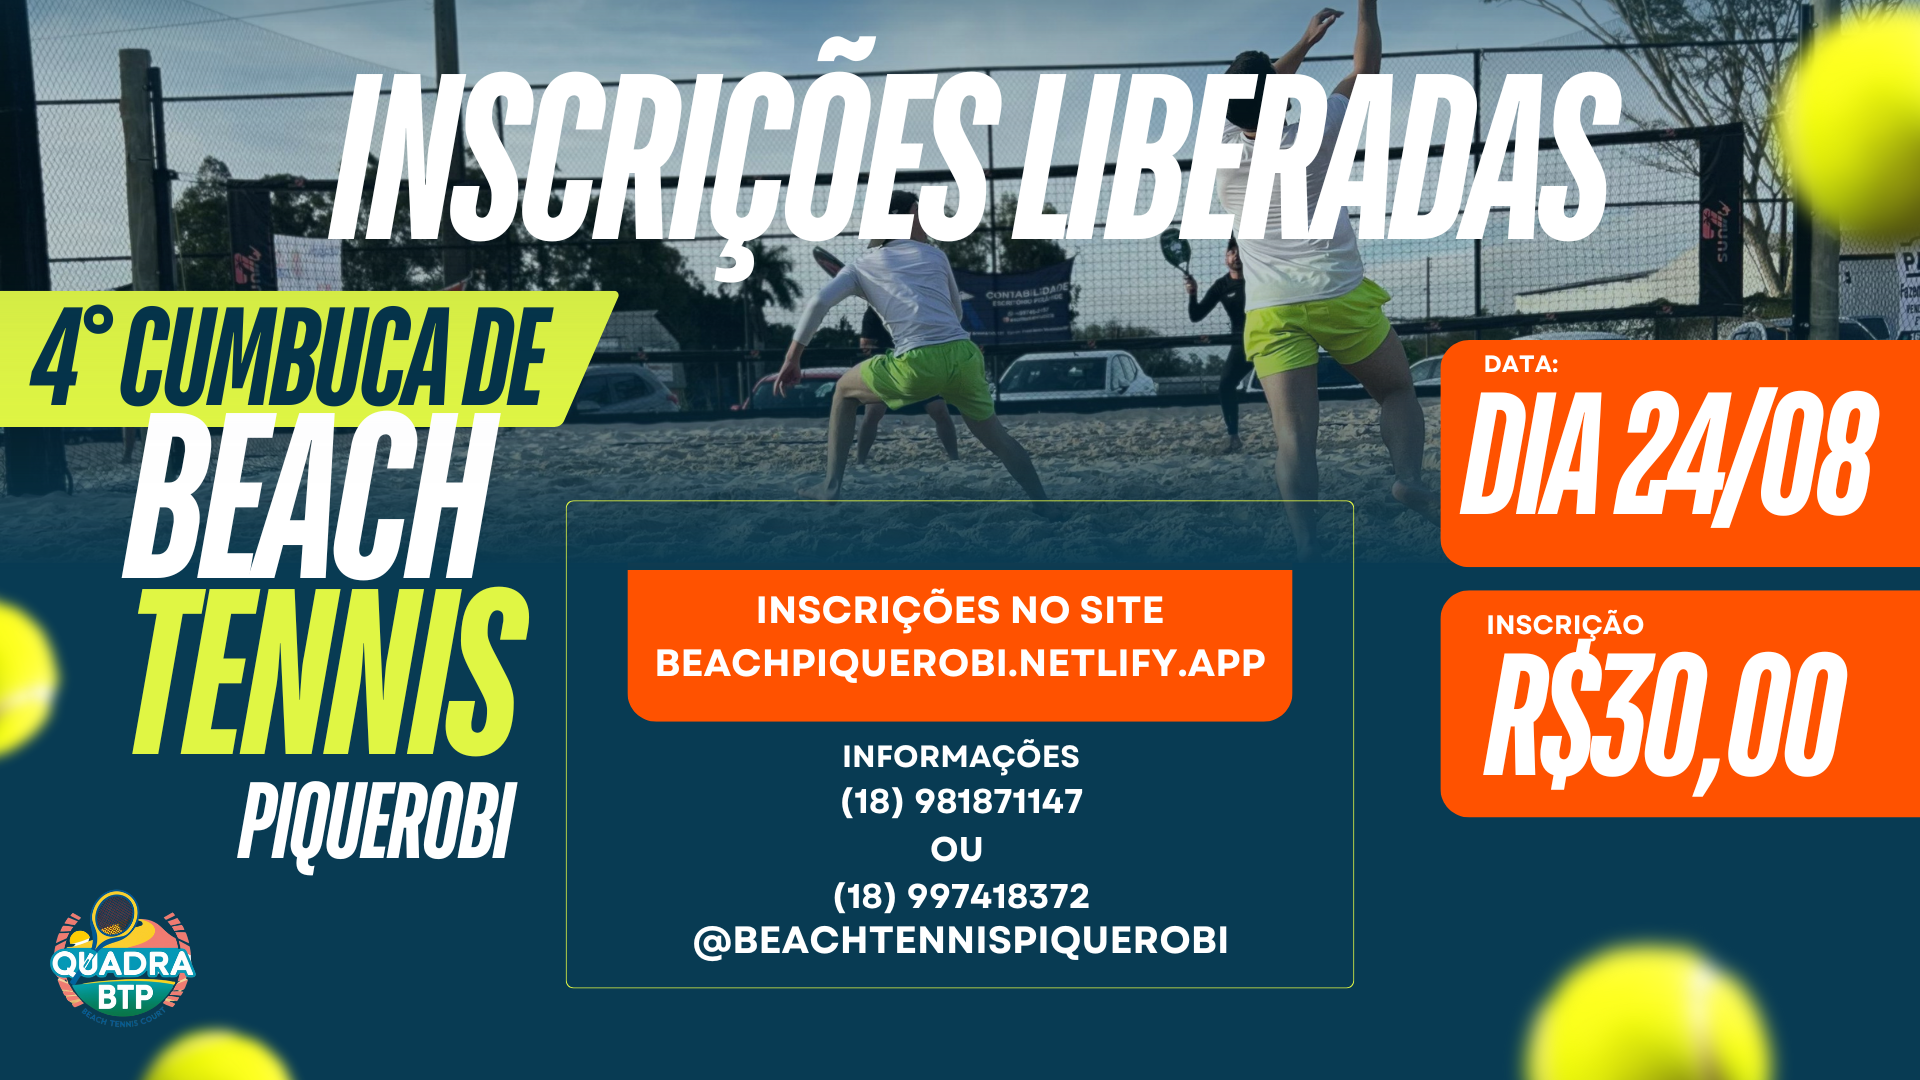
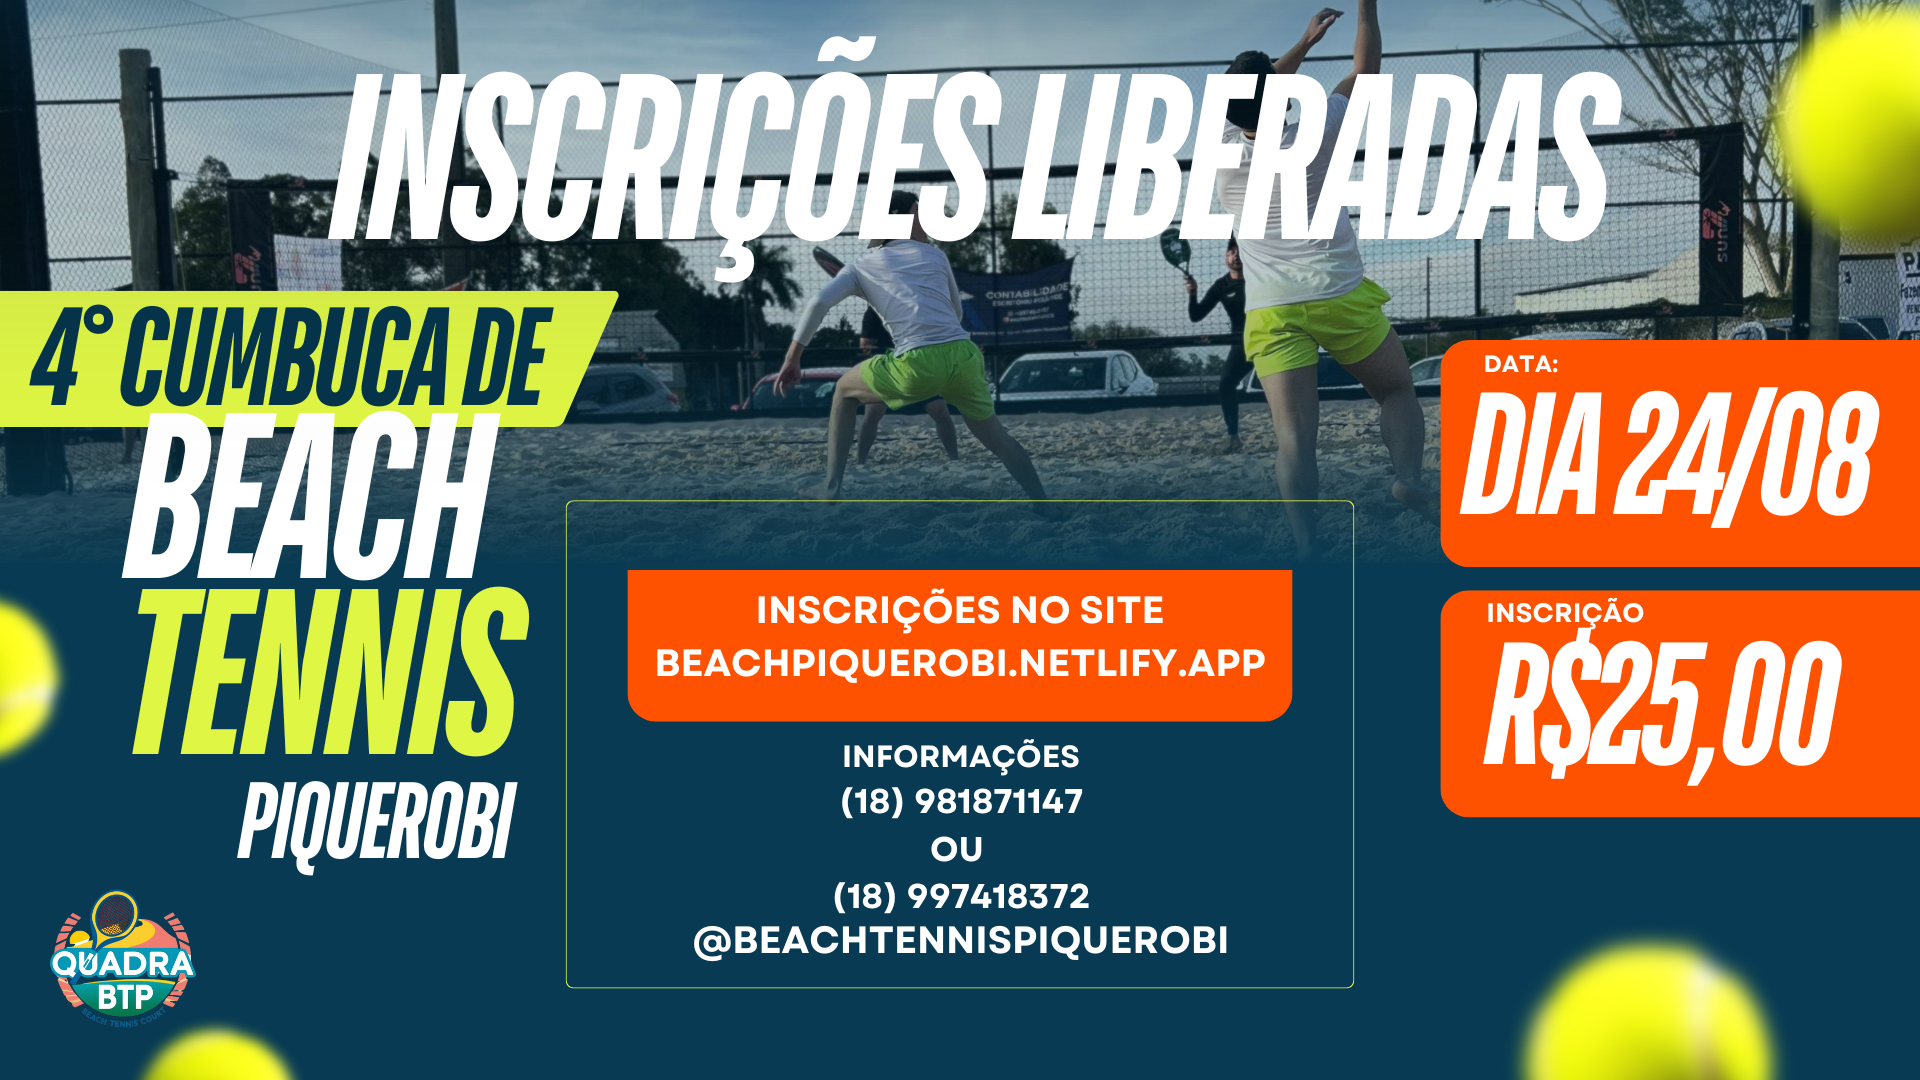
Commit

Changed region(s): [[0.7812, 0.55, 0.9688, 0.7333]]

diff --git a/index.html b/index.html
@@ -242,13 +242,10 @@
     <!-- Main Content -->
     <div class="container mt-5">
         <div class="jumbotron">
-            <h3
-                style="margin-top:10px; font-family: Impact, Haettenschweiler, 'Arial Narrow Bold', sans-serif;text-decoration:underline;">
-                Inscrições abertas!</h3>
-            <img src="images/bannersite.png" alt="Logo" width="600px" class="img-fluid">
+            <img src="images/bannersite.png" alt="Logo" width="800px" class="img-fluid">
             <hr class="mt-4">
-            <a class="btn btn-success mb-4" href="inscricao.html"><i class="bi bi-pencil-square"> </i>Realizar inscrição</a>
-            <a class="btn btn-primary mb-4" href="inscritos.html"><i class="bi bi-people"> </i>Lista de inscritos</a>
+            <a class="btn btn-success mb-4" href="inscricao.html" style="padding:15px;"><i class="bi bi-pencil-square"> </i>Realizar inscrição</a>
+            <a class="btn btn-primary mb-4" href="inscritos.html" style="padding:15px;"><i class="bi bi-people"> </i>Lista de inscritos</a>
             <!-- <a class="btn btn-danger btn-lg mt-2 disabled" href="inscricao.html" role="button"><i class="bi bi-pencil-square"></i>Inscrições finalizadas</a>
             <a class="btn btn-secondary btn-lg mt-2" href="inscritos.html" role="button"><i class="bi bi-people"></i> Ver Inscritos</a>
             <a class="btn btn-danger btn-lg mt-2" href="loginOrg.html" role="button"><i class="bi bi-gear"> </i> Realizar sorteio</a> -->
@@ -286,7 +283,7 @@
                         style="color:#007bff;background-color: #fff; padding:5px;border-radius:10px;text-decoration: none;"
                         target="_blank" href='https://maps.app.goo.gl/ZQrLwiM4fYPDBrd67'><i
                             class='bi bi-geo-alt-fill'></i> Veja aqui</a></p>
-                <p><strong>VALOR:</strong> R$30,00</p>
+                <p><strong>VALOR:</strong> R$25,00</p>
                 <p><strong>DATA LIMITE INSCRIÇÕES:</strong>Sexta às 17:00</p>
             </div>
         </div>

diff --git a/inscricao.html b/inscricao.html
@@ -45,7 +45,7 @@
                         <p><strong>CHAVE PIX:</strong></p>
                         <p id="pix-key">563.562.668-80</p>
                         <p><button class="btn btn-primary" id="copyPixButton"><i class="bi bi-clipboard"> </i>Copiar Chave PIX</button></p>
-                        <p><strong>R$30,00</strong></p>
+                        <p><strong>R$25,00</strong></p>
                         <p>Data limite para o pagamento: <strong>23/08 às 17:00</strong></p>
                     </div>
                 </div>
